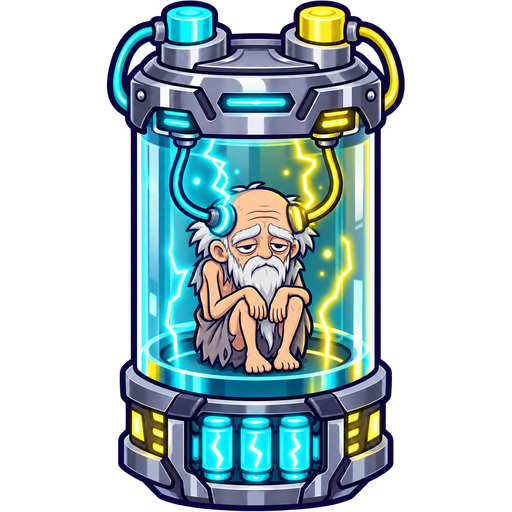
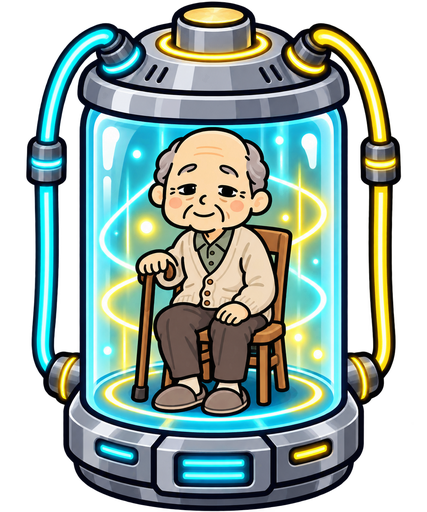
人間電池をやさしいおじいさんへ差し替え

diff --git a/app-card-battle-v2.js b/app-card-battle-v2.js
@@ -19,7 +19,7 @@ const quizTriviaDefaults=()=>{const f=[
 const gameAssetCatalog=GAME_DATA.assets||{},gameMapNames=gameAssetCatalog.maps||[],gameNpcNames=gameAssetCatalog.npcs||[],gameItemNames=gameAssetCatalog.items||[];
 // シナリオの到達状態はゲームを遊んでいる端末ごとに保持する。ツールとゲームで同じキーを使う。
 const scenarioFlowFlagsKey='amu-runner-scenario-flow-flags-v1',scenarioFlowFlagKey=(scenarioId,nodeId)=>String(scenarioId||'')+'::'+String(nodeId||''),readScenarioFlowFlags=()=>{try{return JSON.parse(localStorage.getItem(scenarioFlowFlagsKey)||'{}')}catch{return{}}},setScenarioFlowFlag=(scenarioId,nodeId)=>{if(!scenarioId||!nodeId)return;const flags=readScenarioFlowFlags();flags[scenarioFlowFlagKey(scenarioId,nodeId)]=true;localStorage.setItem(scenarioFlowFlagsKey,JSON.stringify(flags));window.dispatchEvent(new CustomEvent('scenario-flow-flag-set',{detail:{scenarioId,nodeId}}))};
-const gameItemSrc=name=>{const file=String(name).replace(/\.png$/i,'');return 'game-assets/items/'+encodeURIComponent(file)+'.webp?v=20261002-report-item-asset-1'};
+const gameItemSrc=name=>{const file=String(name).replace(/\.png$/i,'');return 'game-assets/items/'+encodeURIComponent(file)+'.webp?v=20261002-human-battery-grandfather-2'};
 const MONSTER_JOURNAL_ITEM='バケモノの手記.png';
 const REPORT_ITEM='レポート.png';
 const monsterJournalPages=[

diff --git a/index.html b/index.html
@@ -12,7 +12,7 @@
   <main class="page"><section id="app" class="card"></section></main>
   <script>
     const q=new URLSearchParams(location.search),j=document.createElement('script');
-j.src=q.has('topdown')?'app-topdown.js?v=20260928-map-refresh-2':q.has('hiragana')?'app-hiragana.js?v=20260928-map-refresh-2':'app-card-battle-v2.js?v=20261002-scenario-flow-v2';
+j.src=q.has('topdown')?'app-topdown.js?v=20260928-map-refresh-2':q.has('hiragana')?'app-hiragana.js?v=20260928-map-refresh-2':'app-card-battle-v2.js?v=20261002-human-battery-grandfather-2';
     document.body.append(j);
   </script>
 </body>

diff --git a/map/index.html b/map/index.html
@@ -12,6 +12,6 @@
 </head>
 <body>
   <main class="page"><section id="app" class="card"></section></main>
-<script src="../app-card-battle-v2.js?v=20261002-scenario-flow-v2"></script>
+<script src="../app-card-battle-v2.js?v=20261002-human-battery-grandfather-2"></script>
 </body>
 </html>
